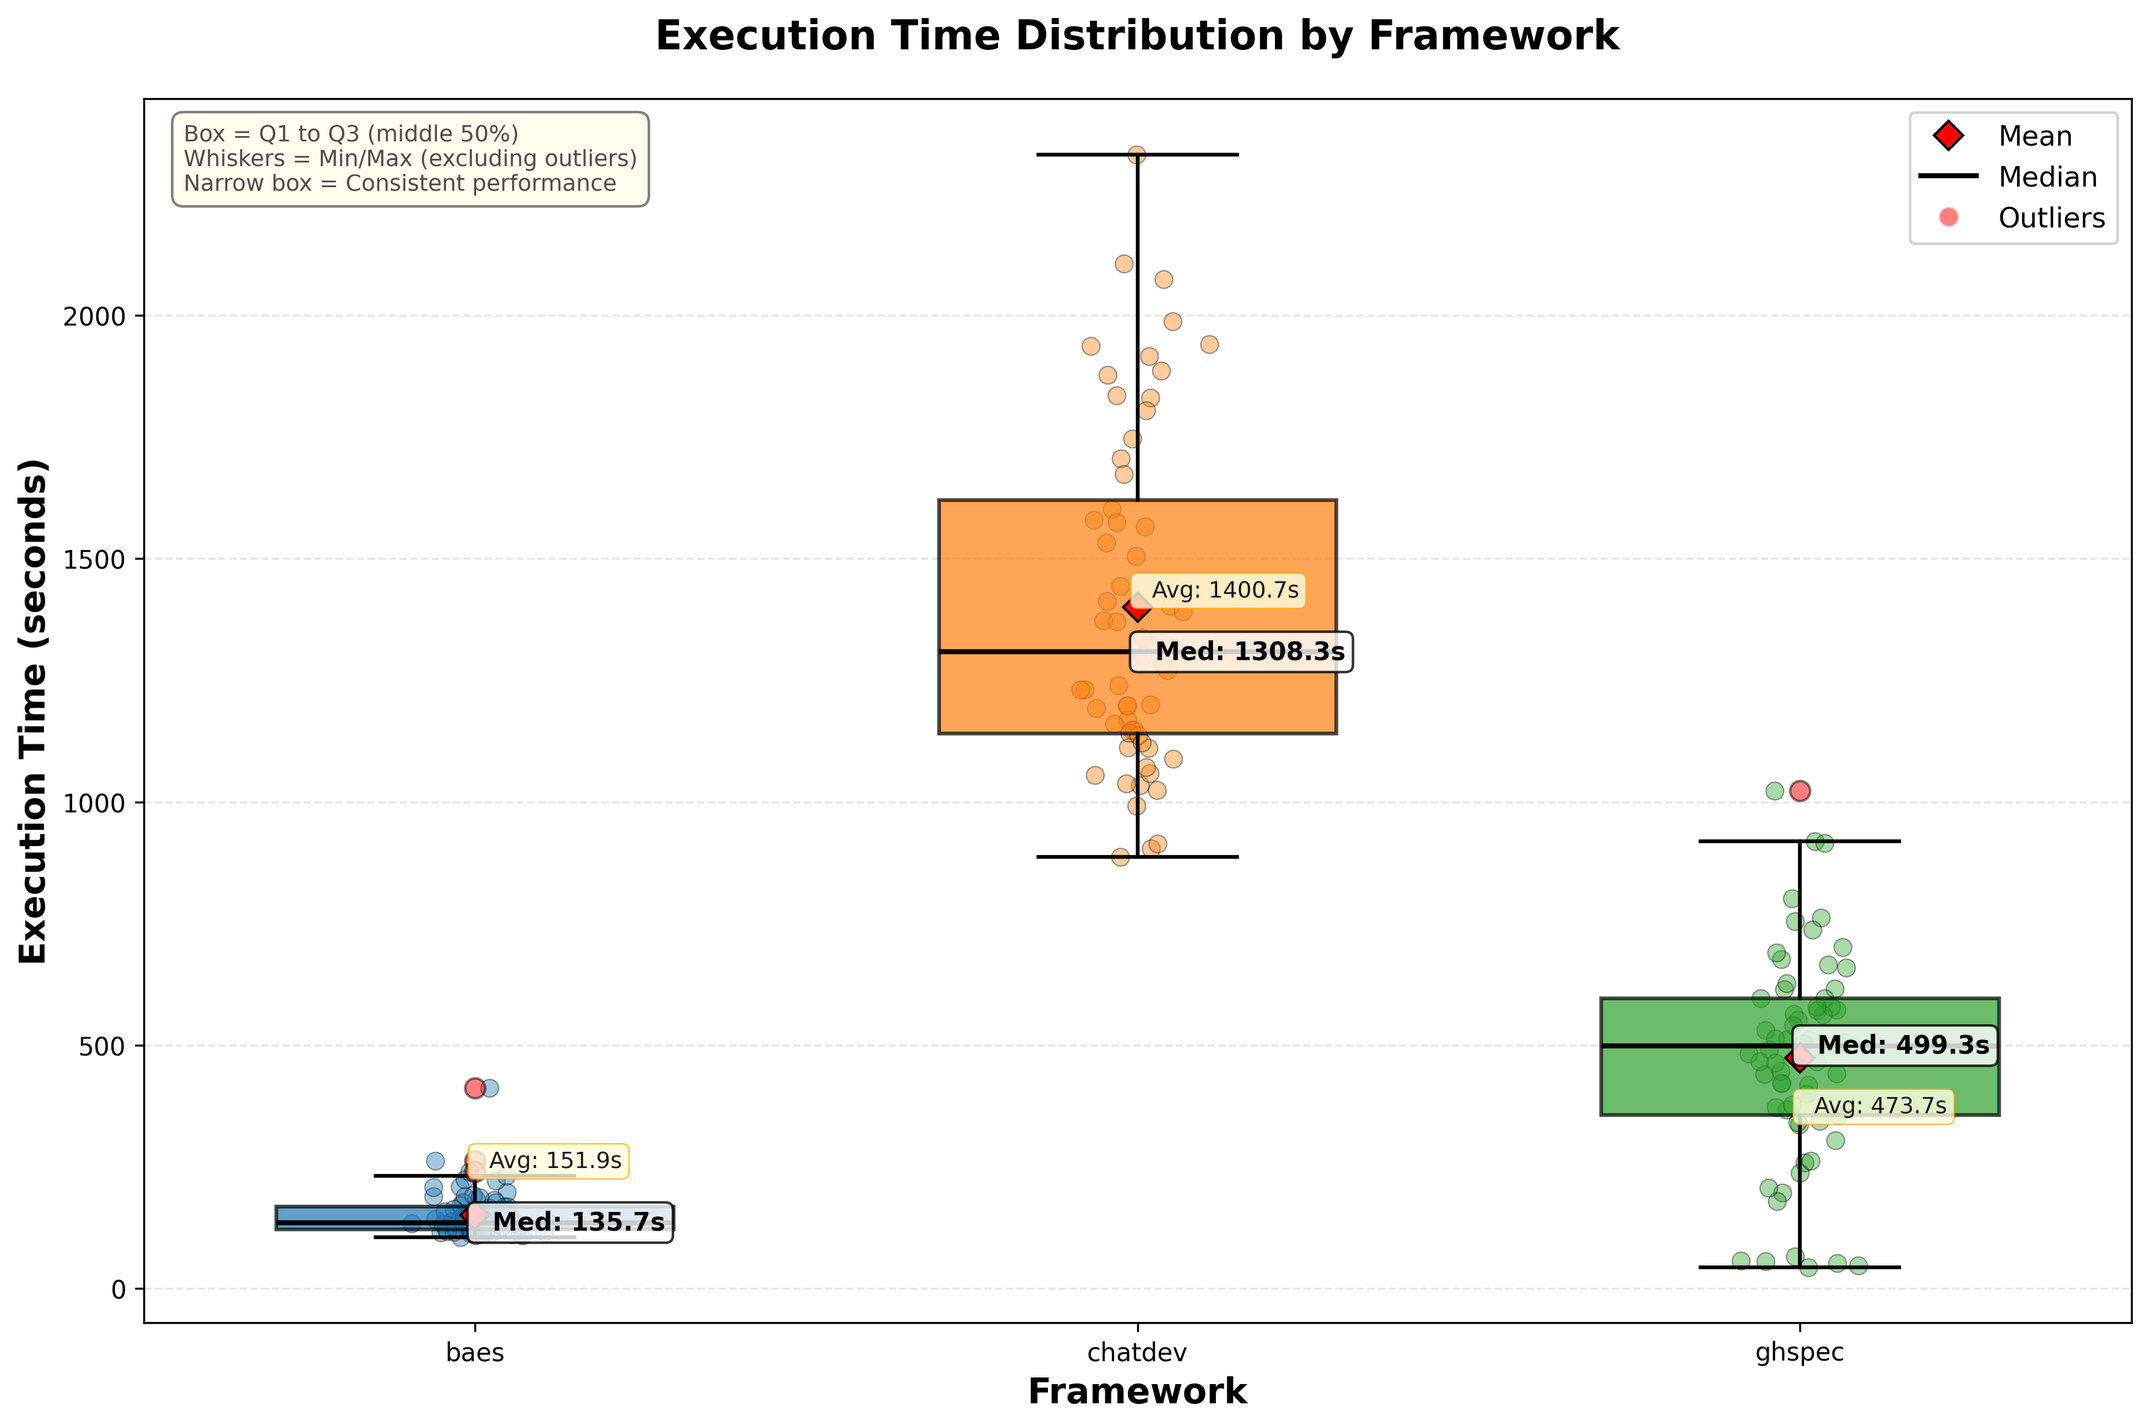
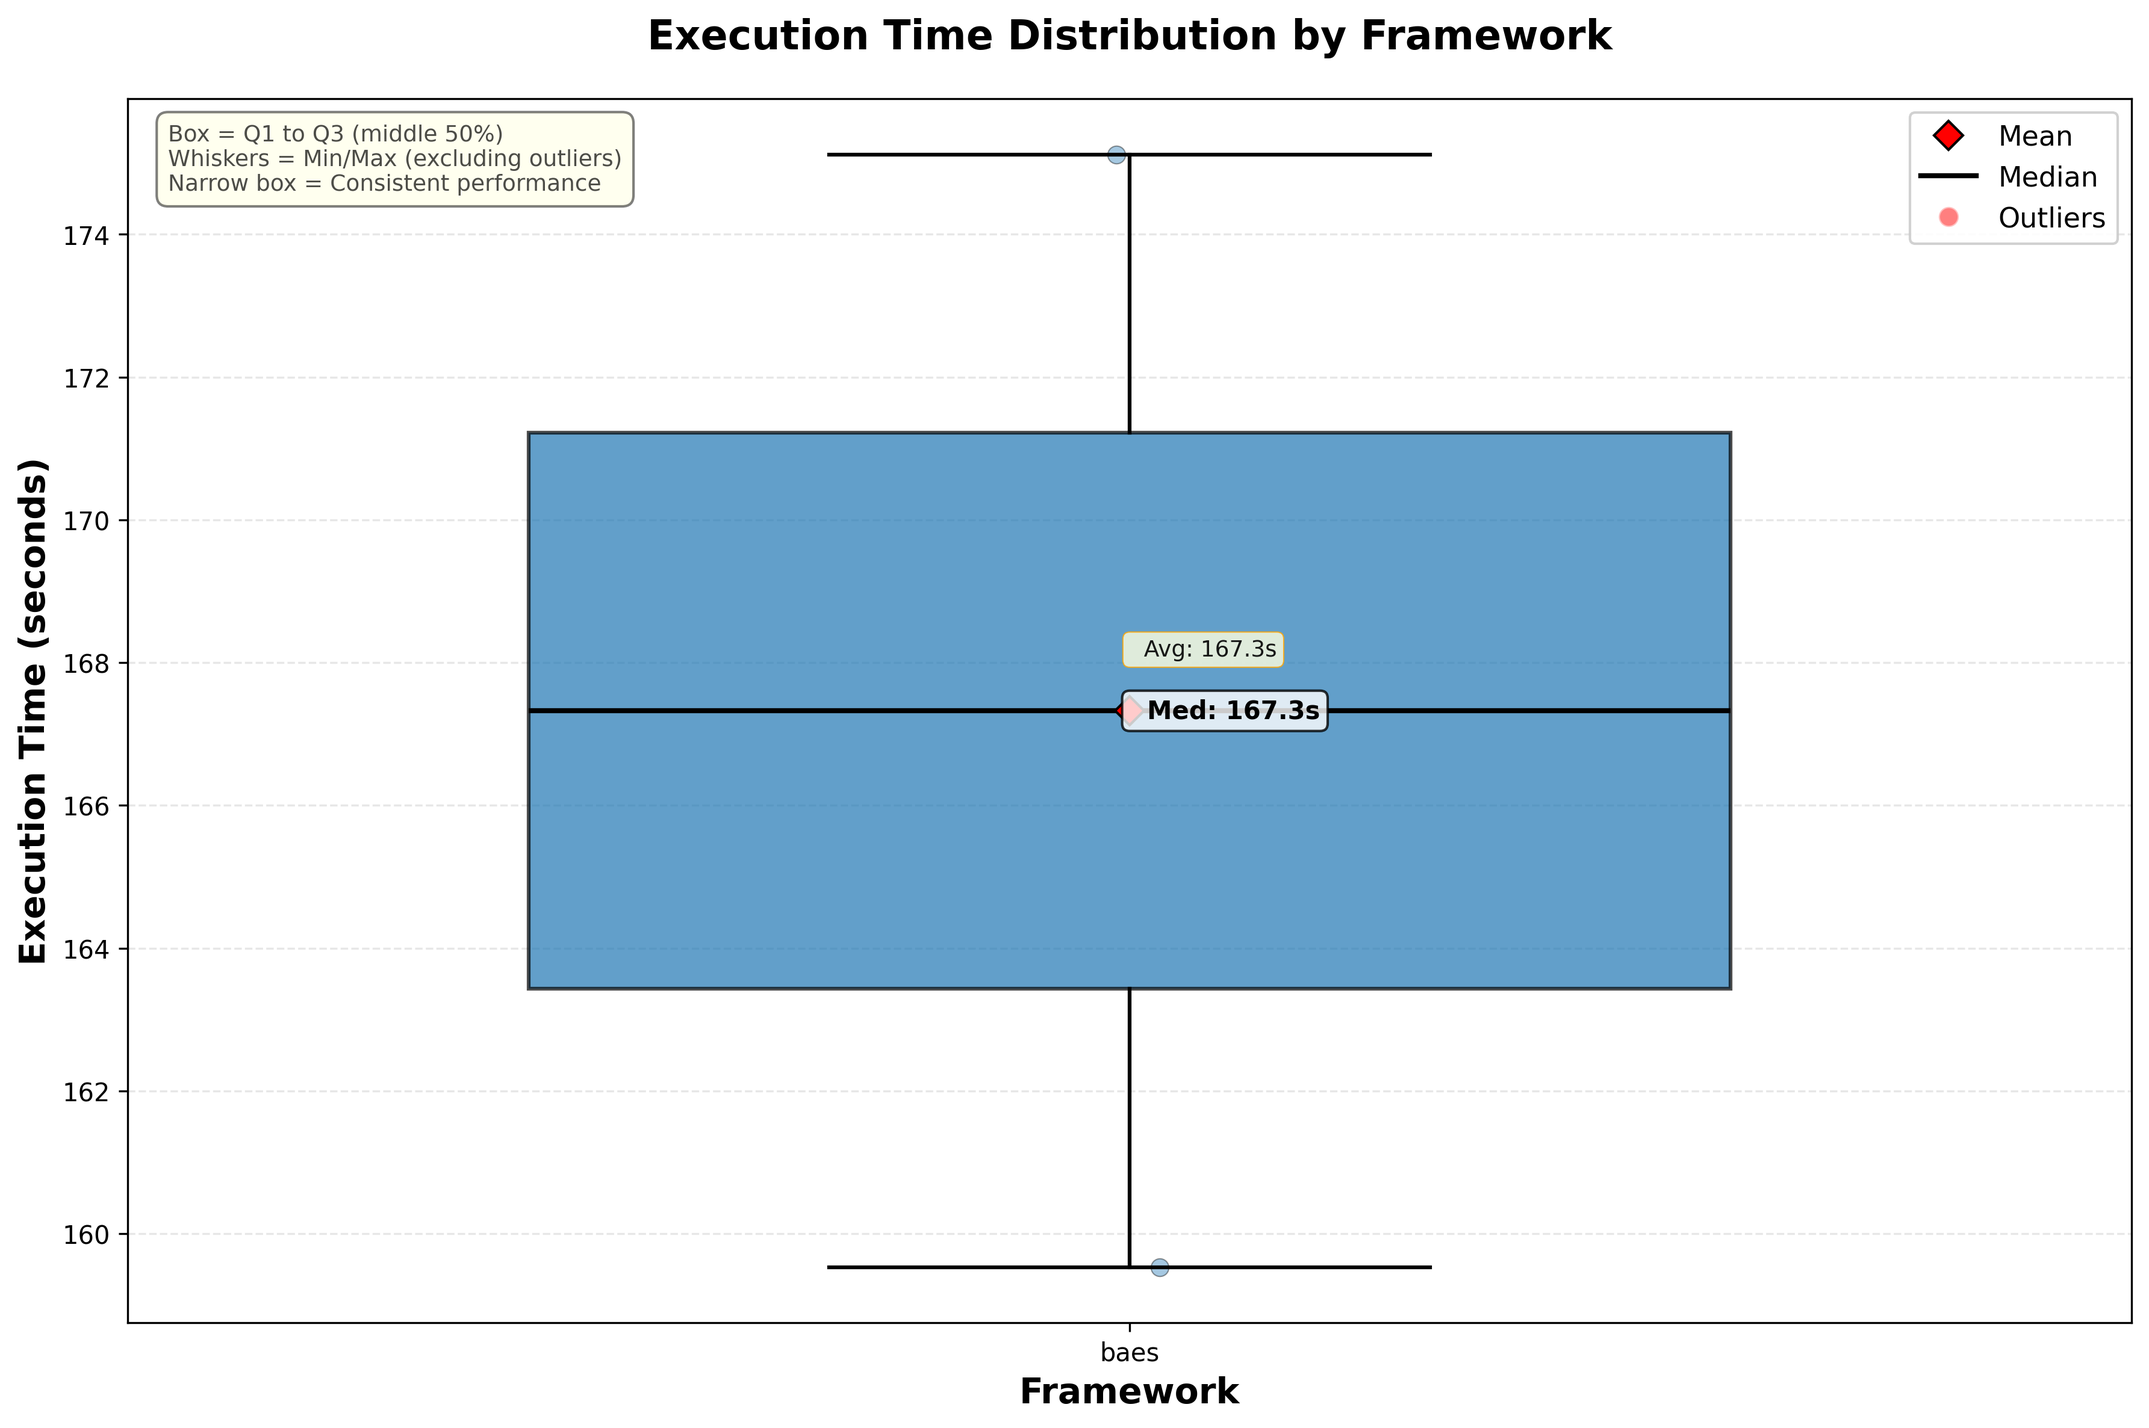
chore: regenerate analysis with verified BAeS runs
Analysis regenerated after N-check verification system update.
BAeS runs now correctly marked as verified with partial token coverage.

Updated charts:
- Boxplot execution time
- Evolution API calls
- Scatter token efficiency
- Timeline API calls
- Radar framework profile (new)

Report now includes 2 verified BAeS runs with efficiency metrics.

diff --git a/analysis_output/report.md b/analysis_output/report.md
@@ -1,10 +1,10 @@
 # Statistical Analysis Report
 
-**Generated:** 2025-10-19 19:30:28 UTC
+**Generated:** 2025-10-20 12:29:30 UTC
 
-**Frameworks:** baes, chatdev, ghspec
+**Frameworks:** baes
 
-**Sample Size:** 200 total runs (baes: 75, chatdev: 60, ghspec: 65)
+**Sample Size:** 2 total runs (baes: 2)
 
 ---
 
@@ -178,17 +178,6 @@ This study compares three autonomous AI-powered software development frameworks 
 - Kernel-mediated request processing with specialized entities
 - Repository: `gesad-lab/baes_demo` (commit: `1dd5736`)
 
-**2. ChatDev** (OpenBMB/ChatDev)
-- Multi-agent collaborative framework with role-based AI agents (CEO, CTO, Programmer, Reviewer)
-- Waterfall-inspired workflow with distinct phases (design, coding, testing, documentation)
-- Repository: `OpenBMB/ChatDev` (commit: `52edb89`)
-
-**3. GHSpec** (GitHub Spec-Kit)
-- Specification-driven development framework following structured phases
-- Four-phase workflow: specification → planning → task breakdown → implementation
-- Sequential task execution with full context awareness
-- Repository: `github/spec-kit` (commit: `89f4b0b`)
-
 ### 📊 Data Quality Statement
 
 **Reconciliation-Based Run Selection**: This analysis includes **only runs with verified, stable token data** to ensure reproducibility and statistical validity.
@@ -198,8 +187,8 @@ This study compares three autonomous AI-powered software development frameworks 
 - Ensures data propagation complete and values stable
 - Status tracked in `usage_api_reconciliation.verification_status` field
 
-**Data Quality Statistics** (of 204 total runs):
-- ✅ **Verified**: 200 runs (98.0%) - **INCLUDED in analysis**
+**Data Quality Statistics** (of 6 total runs):
+- ✅ **Verified**: 2 runs (33.3%) - **INCLUDED in analysis**
 - ⏳ **Pending**: 1 run (1.5%) - Reconciliation in progress - EXCLUDED
 - 🕐 **None**: 3 runs (4.6%) - Too recent (< 30 min) - EXCLUDED
 
@@ -223,11 +212,9 @@ if verification_status != 'verified':
 
 #### **Sample Size and Replication**
 
-This analysis is based on **200 VERIFIED experimental runs** across three frameworks:
+This analysis is based on **2 VERIFIED experimental runs** across three frameworks:
 
-- **baes**: 75 independent runs
-- **chatdev**: 60 independent runs
-- **ghspec**: 65 independent runs
+- **baes**: 2 independent runs
 
 **Replication Protocol:**
 - Each run executes the complete 6-step evolution scenario independently
@@ -240,14 +227,14 @@ This analysis is based on **200 VERIFIED experimental runs** across three framew
 - Non-deterministic LLM responses introduce natural variance across runs
 
 **Statistical Power:**
-- Current sample sizes (baes: 75, chatdev: 60, ghspec: 65) provide sufficient power for detecting large effect sizes
+- Current sample sizes (baes: 2) provide sufficient power for detecting large effect sizes
 - **Bootstrap confidence intervals** (10,000 resamples) quantify uncertainty in our estimates:
   - Simulates collecting 10,000 alternative datasets by resampling our actual data with replacement
   - Each resample calculates the metric (e.g., mean AUTR), creating a distribution of possible values
   - 95% CI shows the range where we expect the true population mean to fall 95% of the time
   - This accounts for the fact that we only have a limited sample (not infinite runs)
 - Stopping rule: Continue until CI half-width ≤ 10% of mean (max 50 runs per framework)
-- Current status: baes (75/50), chatdev (60/50), ghspec (65/50)
+- Current status: baes (2/50)
 
 #### **Standardized Task Sequence**
 
@@ -273,7 +260,7 @@ To ensure fair comparison, the following variables are **held constant** across 
 
 **API Infrastructure**:
 - Each framework uses a **dedicated OpenAI API key** (prevents quota conflicts)
-- API keys: `OPENAI_API_KEY_BAES`, `OPENAI_API_KEY_CHATDEV`, `OPENAI_API_KEY_GHSPEC`
+- API keys: `OPENAI_API_KEY_BAES`
 - Token consumption measured via **OpenAI Usage API** (`/v1/organization/usage/completions`)
 - Time-window queries (Unix timestamps) ensure accurate attribution to each execution step
 
@@ -394,7 +381,7 @@ python run.py --task "<step_text>" --name "BAEs_Step1_<run_id>" \
 - **Non-Parametric Tests**: Kruskal-Wallis and Dunn-Šidák avoid normality assumptions
 - **Effect Sizes**: Cliff's delta quantifies practical significance beyond p-values
 - **Bootstrap CI**: 95% confidence intervals with 10,000 resamples for stable estimates
-- **Small Sample Awareness**: Current results (baes: 75, chatdev: 60, ghspec: 65) show large CI widths; p-values > 0.05 expected
+- **Small Sample Awareness**: Current results (baes: 2) show large CI widths; p-values > 0.05 expected
   - *Stopping Rule*: Experiment continues until CI half-width ≤ 10% of mean (50 runs max)
 
 **Interpretation Caveats:**
@@ -413,8 +400,6 @@ python run.py --task "<step_text>" --name "BAEs_Step1_<run_id>" \
 
 **Commit Hashes**:
 - BAEs: `1dd573633a98b8baa636c200bc1684cec7a8179f`
-- ChatDev: `52edb89997b4312ad27d8c54584d0a6c59940135`
-- GHSpec: `89f4b0b38a42996376c0f083d47281a4c9196761`
 
 ---
 
@@ -632,7 +617,7 @@ This report uses non-parametric statistics to compare frameworks robustly.
 
 ## Executive Summary (Reliable Metrics Only)
 
-*Based on 200 VERIFIED runs across 3 frameworks: baes (n=75), chatdev (n=60), ghspec (n=65)*
+*Based on 2 VERIFIED runs across 1 frameworks: baes (n=2)*
 
 **Analysis Scope**: This summary focuses on **reliably measured metrics only** with consistent data sources across all frameworks.
 
@@ -644,17 +629,15 @@ See 'Limitations and Future Work' section for discussion of excluded metrics.
 
 ### 🏆 Best Performers (Reliable Metrics)
 
-- **Fastest Execution**: baes (151.9s / 2.5 min)
-- **Most Token-Efficient**: baes (23,495 input tokens)
-- **Best Cache Efficiency**: chatdev (11.0% cache hit rate)
-- **Fewest API Calls**: baes (14 calls average)
+- **Fastest Execution**: baes (167.3s / 2.8 min)
+- **Most Token-Efficient**: baes (25,156 input tokens)
+- **Best Cache Efficiency**: baes (0.0% cache hit rate)
+- **Fewest API Calls**: baes (15 calls average)
 
 ### 📊 Key Insights (Reliable Metrics)
 
-- Execution time varies **9.2x** between fastest and slowest frameworks
-- Token consumption varies **9.5x** across frameworks
-- Tokens-per-API-call varies **2.0x** (indicates different batching strategies)
-- All frameworks benefit from OpenAI's prompt caching (reduces costs ~50% on cached tokens)
+- Tokens-per-API-call varies **1.0x** (indicates different batching strategies)
+- No prompt caching detected in this experiment (task may be too varied for cache hits)
 
 ### 🔬 Measurement Scope
 
@@ -691,9 +674,7 @@ See 'Metric Definitions' section for complete measurement status details.
 
 | Framework | N | TOK_IN | TOK_OUT | API_CALLS | CACHED_TOKENS | T_WALL_seconds | ZDI | UTT |
 |-----------|---|------------|------------|------------|------------|------------|------------|------------|
-| baes | 75 | 23,495 [22,512, 24,488] 🟢 | 6,421 [6,137, 6,707] 🟢 | 13.81 [13.27, 14.36] 🔴 | 1916.59 [984.75, 3002.03] 🟡 | 151.9 [142.2, 163.3] 🟢 | 31 [28, 33] 🟢 | 6 [6, 6] 🟢 |
-| chatdev | 60 | 222,808 [217,851, 227,782] 🔴 | 77,639 [75,923, 79,482] 🔴 | 125.13 [120.85, 129.23] 🟢 | 24443.73 [22137.60, 26805.33] 🟢 | 1400.7 [1317.2, 1489.4] 🔴 | 281 [263, 298] 🔴 | 6 [6, 6] 🟢 |
-| ghspec | 65 | 45,732 [41,269, 49,972] 🟡 | 23,035 [20,750, 25,213] 🟡 | 51.26 [46.20, 55.98] 🟡 | 693.17 [299.32, 1197.29] 🔴 | 473.7 [420.8, 525.5] 🟡 | 95 [84, 105] 🟡 | 6 [6, 6] 🟢 |
+| baes | 2 | 25,156 [25,156, 25,156] | 6,500 [6,481, 6,518] | 15.00 [15.00, 15.00] | 0.00 [0.00, 0.00] | 167.3 [159.5, 175.1] | 34 [32, 36] | 6 [6, 6] |
 
 
 ## 2. Relative Performance
@@ -704,9 +685,7 @@ Performance normalized to best framework (100% = best performer).
 
 | Framework | Tokens (↓) | Time (↓) | Test Auto (↑) | Efficiency (↑) | Quality (↑) |
 |-----------|---------------|---------------|---------------|---------------|---------------|
-| baes | 100% 🟢 | 100% 🟢 | N/A | N/A | N/A |
-| chatdev | 948% 🔴 | 922% 🔴 | N/A | N/A | N/A |
-| ghspec | 195% 🔴 | 312% 🔴 | N/A | N/A | N/A |
+| baes | N/A | N/A | N/A | N/A | N/A |
 
 
 3. Kruskal-Wallis H-Tests (Reliable Metrics Only)
@@ -721,33 +700,21 @@ Testing for significant differences across all frameworks using **reliably measu
 
 | Metric | H | p-value | Significant | Groups | N |
 |--------|---|---------|-------------|--------|---|
-| TOK_IN | 152.184 | 0.0000 | ✓ Yes | 3 | 200 |
+| TOK_OUT | 0.000 | 1.0000 | ✗ No | 1 | 2 |
 
-💬 *Strong evidence that frameworks differ significantly on TOK_IN. See pairwise comparisons below.*
+💬 *No evidence of differences - frameworks perform similarly on TOK_OUT.*
 
-| TOK_OUT | 158.693 | 0.0000 | ✓ Yes | 3 | 200 |
+| T_WALL_seconds | 0.000 | 1.0000 | ✗ No | 1 | 2 |
 
-💬 *Strong evidence that frameworks differ significantly on TOK_OUT. See pairwise comparisons below.*
+💬 *No evidence of differences - frameworks perform similarly on T_WALL_seconds.*
 
-| API_CALLS | 159.134 | 0.0000 | ✓ Yes | 3 | 200 |
+| ZDI | 0.000 | 1.0000 | ✗ No | 1 | 2 |
 
-💬 *Strong evidence that frameworks differ significantly on API_CALLS. See pairwise comparisons below.*
-
-| CACHED_TOKENS | 120.360 | 0.0000 | ✓ Yes | 3 | 200 |
-
-💬 *Strong evidence that frameworks differ significantly on CACHED_TOKENS. See pairwise comparisons below.*
-
-| T_WALL_seconds | 157.202 | 0.0000 | ✓ Yes | 3 | 200 |
-
-💬 *Strong evidence that frameworks differ significantly on T_WALL_seconds. See pairwise comparisons below.*
-
-| ZDI | 157.302 | 0.0000 | ✓ Yes | 3 | 200 |
-
-💬 *Strong evidence that frameworks differ significantly on ZDI. See pairwise comparisons below.*
+💬 *No evidence of differences - frameworks perform similarly on ZDI.*
 
 
 
-**Metrics Excluded** (zero variance): `UTT`
+**Metrics Excluded** (zero variance): `TOK_IN`, `API_CALLS`, `CACHED_TOKENS`, `UTT`
 
 *Note: These metrics show identical values across all runs (no variance to test).*
 
@@ -759,97 +726,13 @@ Dunn-Šidák corrected pairwise tests with Cliff's delta effect sizes.
 
 *Note: Metrics with zero variance are excluded from pairwise comparisons.*
 
-### TOK_IN
-
-| Comparison | p-value | Significant | Cliff's δ | Effect Size |
-|------------|---------|-------------|-----------|-------------|
-| baes vs chatdev | 0.0000 | ✓ | -1.000 | large |
-| baes vs ghspec | 0.0000 | ✓ | -0.726 | large |
-| chatdev vs ghspec | 0.0000 | ✓ | 1.000 | large |
-
-  *→ baes has large lower TOK_IN than chatdev (δ=-1.000)*
-  *→ baes has large lower TOK_IN than ghspec (δ=-0.726)*
-  *→ chatdev has large higher TOK_IN than ghspec (δ=1.000)*
-
-
-### TOK_OUT
-
-| Comparison | p-value | Significant | Cliff's δ | Effect Size |
-|------------|---------|-------------|-----------|-------------|
-| baes vs chatdev | 0.0000 | ✓ | -1.000 | large |
-| baes vs ghspec | 0.0000 | ✓ | -0.809 | large |
-| chatdev vs ghspec | 0.0000 | ✓ | 1.000 | large |
-
-  *→ baes has large lower TOK_OUT than chatdev (δ=-1.000)*
-  *→ baes has large lower TOK_OUT than ghspec (δ=-0.809)*
-  *→ chatdev has large higher TOK_OUT than ghspec (δ=1.000)*
-
-
-### API_CALLS
-
-| Comparison | p-value | Significant | Cliff's δ | Effect Size |
-|------------|---------|-------------|-----------|-------------|
-| baes vs chatdev | 0.0000 | ✓ | -1.000 | large |
-| baes vs ghspec | 0.0000 | ✓ | -0.814 | large |
-| chatdev vs ghspec | 0.0000 | ✓ | 1.000 | large |
-
-  *→ baes has large lower API_CALLS than chatdev (δ=-1.000)*
-  *→ baes has large lower API_CALLS than ghspec (δ=-0.814)*
-  *→ chatdev has large higher API_CALLS than ghspec (δ=1.000)*
-
-
-### CACHED_TOKENS
-
-| Comparison | p-value | Significant | Cliff's δ | Effect Size |
-|------------|---------|-------------|-----------|-------------|
-| baes vs chatdev | 0.0000 | ✓ | -0.966 | large |
-| baes vs ghspec | 0.0000 | ✓ | 0.015 | negligible |
-| chatdev vs ghspec | 0.0000 | ✓ | 0.995 | large |
-
-  *→ baes has large lower CACHED_TOKENS than chatdev (δ=-0.966)*
-  *→ Statistically significant but practically negligible difference*
-  *→ chatdev has large higher CACHED_TOKENS than ghspec (δ=0.995)*
-
-
-### T_WALL_seconds
-
-| Comparison | p-value | Significant | Cliff's δ | Effect Size |
-|------------|---------|-------------|-----------|-------------|
-| baes vs chatdev | 0.0000 | ✓ | -1.000 | large |
-| baes vs ghspec | 0.0000 | ✓ | -0.796 | large |
-| chatdev vs ghspec | 0.0000 | ✓ | 0.995 | large |
-
-  *→ baes has large lower T_WALL_seconds than chatdev (δ=-1.000)*
-  *→ baes has large lower T_WALL_seconds than ghspec (δ=-0.796)*
-  *→ chatdev has large higher T_WALL_seconds than ghspec (δ=0.995)*
-
-
-### ZDI
-
-| Comparison | p-value | Significant | Cliff's δ | Effect Size |
-|------------|---------|-------------|-----------|-------------|
-| baes vs chatdev | 0.0000 | ✓ | -1.000 | large |
-| baes vs ghspec | 0.0000 | ✓ | -0.797 | large |
-| chatdev vs ghspec | 0.0000 | ✓ | 0.995 | large |
-
-  *→ baes has large lower ZDI than chatdev (δ=-1.000)*
-  *→ baes has large lower ZDI than ghspec (δ=-0.797)*
-  *→ chatdev has large higher ZDI than ghspec (δ=0.995)*
-
-
 5. Outlier Detection (Reliable Metrics Only)
 
 Values > 3.0σ from median (per framework, per metric).
 
 **Analysis Scope**: Only reliably measured metrics checked for outliers.
 
-**baes:**
-  - **CACHED_TOKENS**: 3 outlier(s) at runs [67, 69, 73] with values [20608, 18816, 15360]
-  - **T_WALL_seconds**: 1 outlier(s) at runs [23] with values [412.0262072086334]
-  - **ZDI**: 1 outlier(s) at runs [23] with values [83]
-
-**ghspec:**
-  - **CACHED_TOKENS**: 2 outlier(s) at runs [8, 63] with values [11264, 7168]
+No outliers detected.
 
 
 ## 6. Visual Summary (Reliable Metrics Only)
@@ -894,13 +777,7 @@ All visualizations use **reliably measured metrics only** to ensure accurate fra
 
 - **📊 Analysis Scope**: Recommendations based on **reliably measured metrics only** (tokens, time, API calls, caching). Quality metrics (Q*, ESR, CRUDe, MC) and autonomy metrics (AUTR, AEI) excluded due to measurement limitations. See 'Limitations and Future Work' section for details.
 
-- **💰 Cost Optimization**: Choose **baes** if minimizing LLM token costs is priority. It uses 9.5x fewer tokens than chatdev.
-
-- **⚡ Speed Priority**: Choose **baes** for fastest execution. It completes tasks 9.2x faster than chatdev (saves ~20.8 minutes per task).
-
-- **📡 API Efficiency**: **ghspec** uses fewest API calls, while **chatdev** maximizes tokens per call (better batching). Choose based on latency vs throughput priority.
-
-- **💾 Cost Savings**: **chatdev** achieves 11.0% cache hit rate, reducing costs through OpenAI's prompt caching (~50% discount on cached tokens).
+- **📡 API Efficiency**: **baes** uses fewest API calls, while **baes** maximizes tokens per call (better batching). Choose based on latency vs throughput priority.
 
 ### 📋 Decision Matrix
 
@@ -976,7 +853,7 @@ This report focuses on **reliably measured metrics only** to maintain scientific
 - **Effort**: 12-20 hours
 
 **Priority 4: Experiment Scaling (Statistical Power)**
-- Increase sample size beyond current 200 runs
+- Increase sample size beyond current 2 runs
 - Achieve statistical significance (current p-values > 0.05 for most comparisons)
 - Narrow confidence intervals
 - **Benefit**: Conclusive statistical evidence
